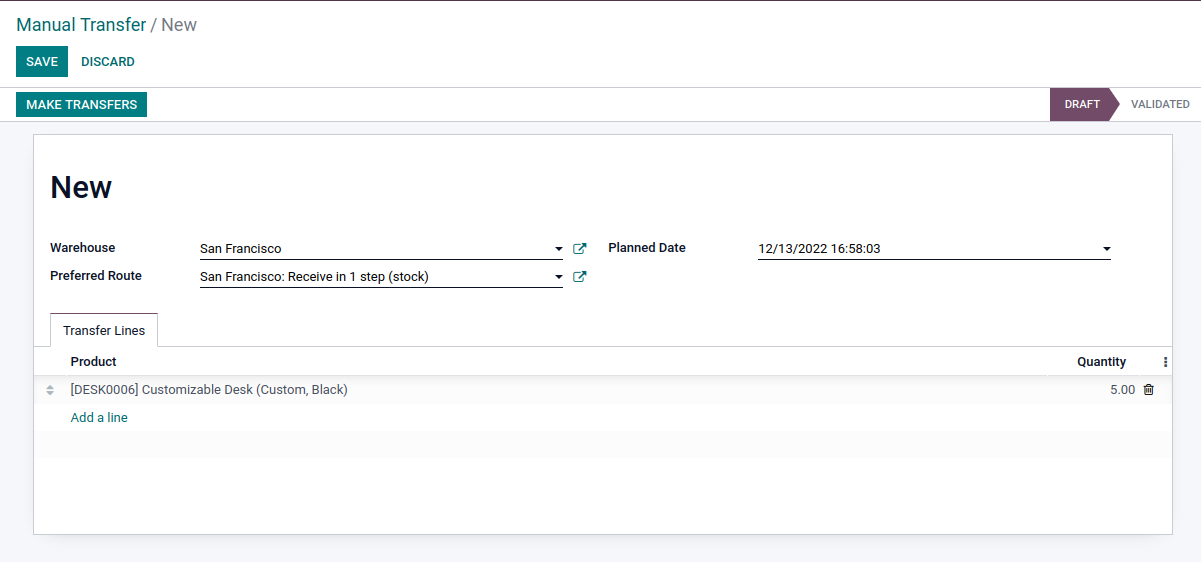
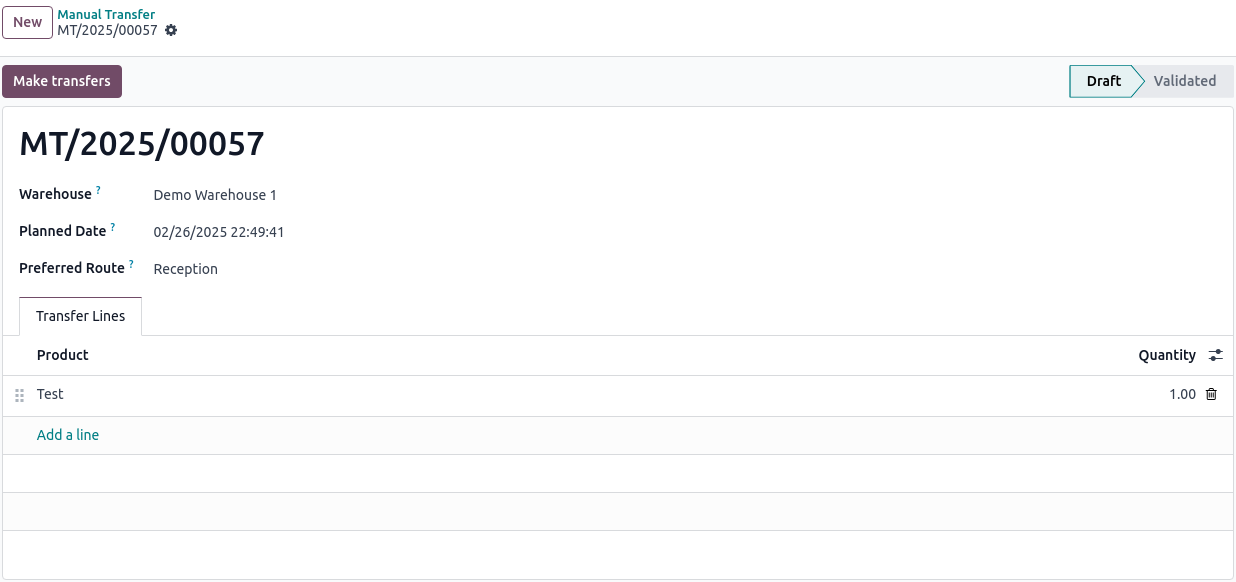
[MIG] stock_manual_transfer: Migration to 18.0
Changelog:
- Bump version to 18.0.1.0.0
- Use location_final_id instead of location_dest_id because are not
  getting the values from stock rules but operation type, and location
  in the rule are saved on location_final_id [1]
- Product type product (Storable) was removed [2], they are consu
  (Goods) and it enables the field is_storable (Track Inventory), so it
  is used this field to get only the storable products.
- Add Manual Transfers menu to respect the style of the current
  Operation menu of Inventory
- Add path to action to show a meaningful url
  (/odoo/manual-transfers)
- General changes of this version (tree to list, chatter block, use
  self.env._, remove no needed invisible field)
- Update translations and documentation

References:
[1]: https://github.com/odoo/odoo/commit/11e69870
[2]: https://github.com/odoo/odoo/commit/728d9f83

diff --git a/stock_manual_transfer/models/stock_manual_transfer.py b/stock_manual_transfer/models/stock_manual_transfer.py
@@ -1,4 +1,4 @@
-from odoo import _, api, fields, models
+from odoo import api, fields, models
 from odoo.exceptions import ValidationError
 
 
@@ -12,7 +12,7 @@ class StockManualTransfer(models.Model):
         copy=False,
         readonly=True,
         index=True,
-        default=lambda self: _("New"),
+        default=lambda self: self.env._("New"),
     )
     warehouse_id = fields.Many2one(
         "stock.warehouse",
@@ -63,7 +63,9 @@ class StockManualTransfer(models.Model):
             return
         route = self.route_id
         if self.warehouse_id not in route.rule_ids.warehouse_id:
-            raise ValidationError(_("The selected route doesn't have configured rules on the selected warehouse."))
+            raise ValidationError(
+                self.env._("The selected route doesn't have configured rules on the selected warehouse.")
+            )
 
         procurement_group = self.env["procurement.group"].create({"name": self.name})
         values = {
@@ -91,7 +93,7 @@ class StockManualTransfer(models.Model):
         for record in self:
             if record.state == "valid":
                 raise ValidationError(
-                    _(
+                    self.env._(
                         "You can not delete a validated transfer.\n- Record: %s",
                         record.name,
                     )
@@ -100,7 +102,7 @@ class StockManualTransfer(models.Model):
     @api.model_create_multi
     def create(self, vals_list):
         for vals in vals_list:
-            if vals.get("name", _("New")) == _("New"):
+            if vals.get("name", self.env._("New")) == self.env._("New"):
                 vals["name"] = self.env["ir.sequence"].next_by_code(self._name)
         return super().create(vals_list)
 

diff --git a/stock_manual_transfer/tests/test_stock_manual_transfer.py b/stock_manual_transfer/tests/test_stock_manual_transfer.py
@@ -59,7 +59,7 @@ class TestStock(TransactionCase):
                     "product_id": self.product.id,
                     "quantity": 1.0,
                     "location_id": self.location_suppliers.id,
-                    "location_dest_id": self.warehouse.lot_stock_id.id,
+                    "location_final_id": self.warehouse.lot_stock_id.id,
                     "origin": expected_name,
                     "state": "assigned",
                 },

diff --git a/stock_manual_transfer/models/stock_manual_transfer_line.py b/stock_manual_transfer/models/stock_manual_transfer_line.py
@@ -10,7 +10,7 @@ class StockManualTransferLine(models.Model):
     sequence = fields.Integer(default=10)
     product_id = fields.Many2one(
         "product.product",
-        domain=[("type", "=", "product")],
+        domain=[("is_storable", "=", True)],
         required=True,
     )
     product_uom_qty = fields.Float("Quantity", default=1.0)

diff --git a/stock_manual_transfer/__manifest__.py b/stock_manual_transfer/__manifest__.py
@@ -9,7 +9,7 @@
     "website": "https://www.vauxoo.com",
     "license": "LGPL-3",
     "category": "Inventory/Inventory",
-    "version": "17.0.1.0.0",
+    "version": "18.0.1.0.0",
     "depends": [
         "stock",
     ],

diff --git a/stock_manual_transfer/README.rst b/stock_manual_transfer/README.rst
@@ -6,7 +6,7 @@ Stock Manual Transfer:
 
 This module allows you to trigger transfers using a specific route, as it were triggered by a reordering rule.
 
-- In order to be able to make the transfer, the user must belong to the stock manual transfer group:
+- In order to be able to make the transfer, the user must belong to the Can make manual transfers group:
 
 .. image:: ./static/description/manual_transfer_group.png
     :alt: Manual transfer group
